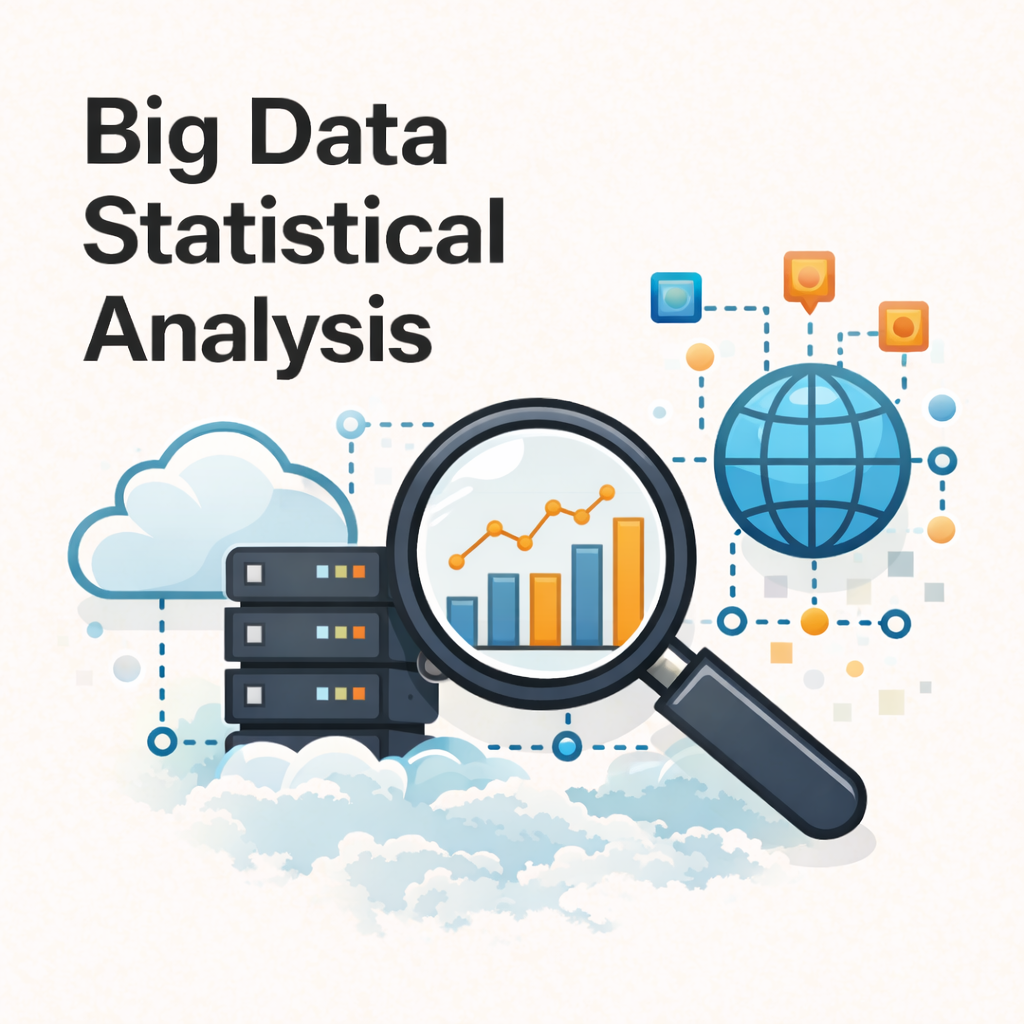
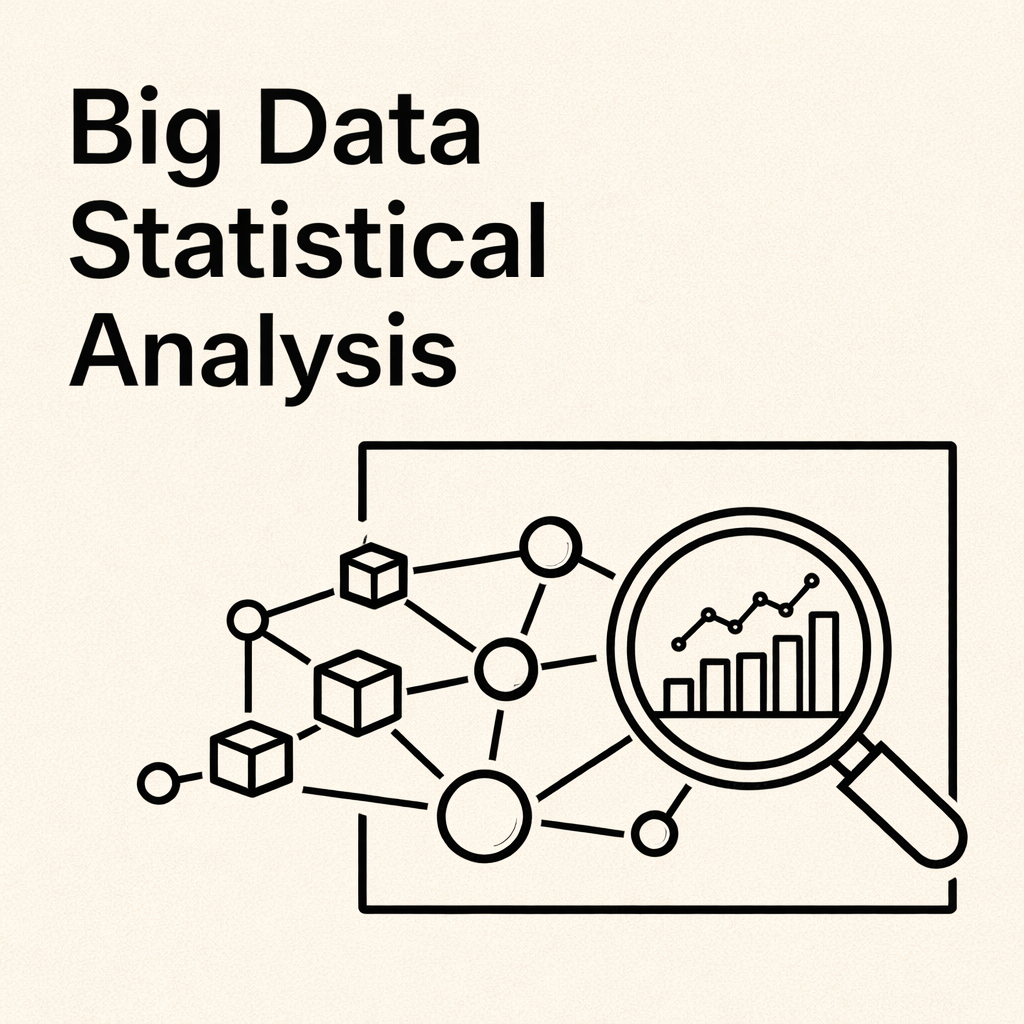
update teaching files

diff --git a/content/teaching/BDSA/index.md b/content/teaching/BDSA/index.md
@@ -1,93 +1,102 @@
 ---
-title: 'Categorical Data Analysis'
-summary: 'Course for undergraduate students'
-date: 2025-08-10
+title: "Big Data Statistical Analysis"
+summary: "Undergraduate Course Syllabus"
+date: 2026-03-01
 type: docs
 math: false
 tags:
-  - R
+  - Big Data
+  - Python
+  - Spark
+  - Data Analysis
 image:
-  caption: ''
+  caption: "Course Material"
 ---
+
 ## Course Syllabus
+
+**Course Title:** Big Data Statistical Analysis  
 **Instructor:** Sewon Park  
-
 **Email:** [email redacted]  
-
-**Semester:** Fall / 2025
-
-**Class Time & Location:** Tuesdays & Thursdays, 16:30–17:45, Room B116, Changhak B
-
-**Office Hours:** Tuesdays, 14:30-15:30 or by appointment
+**Semester:** Spring 2026  
+**Class Time & Location:** Monday & Wednesday, 10:00–11:50, Room B116  
+**Office Hours:** Wednesday 13:00–14:00 or by appointment  
 
 ---
 
-### Course Description
-This course covers the fundamental theories and practical methods of categorical data analysis, which is a core subject in statistical data analysis alongside regression analysis. While regression analysis (and ANOVA) focuses on continuous response variables, categorical data analysis addresses discrete response variables such as binary, multinomial, and count data. We will learn a wide range of methodologies for analyzing categorical outcomes, with emphasis on both theoretical foundations and practical applications.
+## Course Description
+
+This course introduces fundamental tools and methodologies for big data analysis. Students will learn practical data processing, storage, and analysis techniques using Python, SQL, and distributed computing frameworks such as Apache Spark. Emphasis is placed on real-world data workflows, including data collection, preprocessing, large-scale analysis, and machine learning applications.
 
 ---
 
-### Learning Objectives
-By the end of the course, students will be able to:
-- Perform categorical data analyses using R (or Python) and interpret the results from real-world datasets.
-- Extend their knowledge of regression analysis to the framework of Generalized Linear Models (GLMs), with an emphasis on categorical response models.
-- Understand and compare methods for analyzing binary, multinomial, ordinal, and count data.
-- Evaluate model fit, interpret parameter estimates, and apply categorical data analysis techniques to practical data analysis problems.
+## Learning Objectives
+
+By the end of this course, students will be able to:
+
+- Understand the structure and characteristics of big data.
+- Build data analysis environments using Python and Linux.
+- Perform data preprocessing and exploratory data analysis (EDA).
+- Use SQL databases for structured data manipulation.
+- Conduct distributed data processing using Apache Spark.
+- Apply machine learning techniques to large-scale datasets.
+- Understand parallel and GPU-based computation concepts.
+
+---
+
+## Prerequisites
+
+Students are expected to have:
+
+- Basic Statistics Knowledge  
+- Introductory Programming Skills  
+- Familiarity with Python (recommended)  
+
+---
+
+## Course Materials
+
+**Textbook**
+
+- No required textbook. Lecture notes will be provided.
+
+**References**
+
+- Karau et al., *Learning Spark*
 
 
 ---
 
-### Prerequisites
-- Mathematical Statistics I, II
-- Linear Regression
+## Grading Policy
+
+| Component        | Percentage |
+|------------------|------------|
+| Attendance       | 10%        |
+| Assignments      | 35%        |
+| Project 1        | 10%        |
+| Project 2        | 10%        |
+| Final Project    | 35%        |
 
 ---
 
-### Course Materials
-- **Textbook:**  
-  - Alan Agresti 지음 | 박태성, 이승연 옮김, 범주형 자료분석 개론, 자유아카데미.
-  - Alan Agresti, An introduction to categorical data analysis, Wiley
-<!-- - **Reference:**  
-  - 
-  -  -->
+## Weekly Schedule
+
+| Week | Topic |
+|------|-------|
+| 1 | Orientation |
+| 2 | Python & Linux Environment Setup |
+| 3 | Shell Scripting, NumPy & Pandas Basics |
+| 4 | Web Data Collection (Static & Dynamic Crawling) |
+| 5 | Open API Data Collection & Text Preprocessing |
+| 6 | MySQL Fundamentals |
+| 7 | MySQL Advanced: Table Joins |
+| 8 | Spark Fundamentals: Installation & Data I/O |
+| 9 | Spark SQL & DataFrames |
+| 10 | Spark Data Analysis: Preprocessing & EDA |
+| 11 | Spark Machine Learning |
+| 12 | Spark NLP & Text Analytics |
+| 13 | Kafka Fundamentals & Streaming Concepts |
+| 14 | PyTorch Basics & CPU vs GPU Computing |
+| 15 | Parallel Computing, DeepSpeed & Final Project Evaluation |
 
 ---
-
-### Grading Policy
-| Component            | Percentage |
-|----------------------|------------|
-| Attendance           | 5%        |
-| Assignments          | 20%        |
-| Midterm Exam         | 35%        |
-| Final Exam           | 40%        |
-
----
-
-### Weekly Schedule
-
-| Week | Topic                         | Readings / Notes           |
-|------|-------------------------------|----------------------------|
-| 1 | Introduction and Review | Ch. 1 |
-| 2 | Analyzing Contingency Tables I | Ch. 2 |
-| 3 | Analyzing Contingency Tables II | Ch. 2 |
-| 4 | Generalized Linear Models | Ch. 3 |
-| 5 | Logistic Regression | Ch. 4 & Ch. 5 |
-| 6 | Multicategory Logit Models I | Ch. 6  |
-| 7 | Multicategory Logit Models II | Ch. 6 |
-| 8 | Midterm Exam | — |
-| 9 | Analysis of Count Data: Poisson, Overdispersion, Negative Binomial | — |
-| 10 | Analysis of Count Data: Zero-Inflation & Log-Linear Models| —  |
-| 11 | Loglinear Models for Contingency Tables and Counts | Ch. 7 |
-| 12 | Models for Matched Pairs | Ch. 8 |
-| 13 | Generalized Estimating Equations (GEE)  |Ch. 9 |
-| 14 | Random Effects: Generalized Linear Mixed Models | Ch. 10 |
-| 15 | Final Exam | — |
-
----
-
-<!-- ### Assignments
-- **Assignment 1:** [Due Date], [Description]
-- **Assignment 2:** [Due Date], [Description]
-- ...
-   -->
-